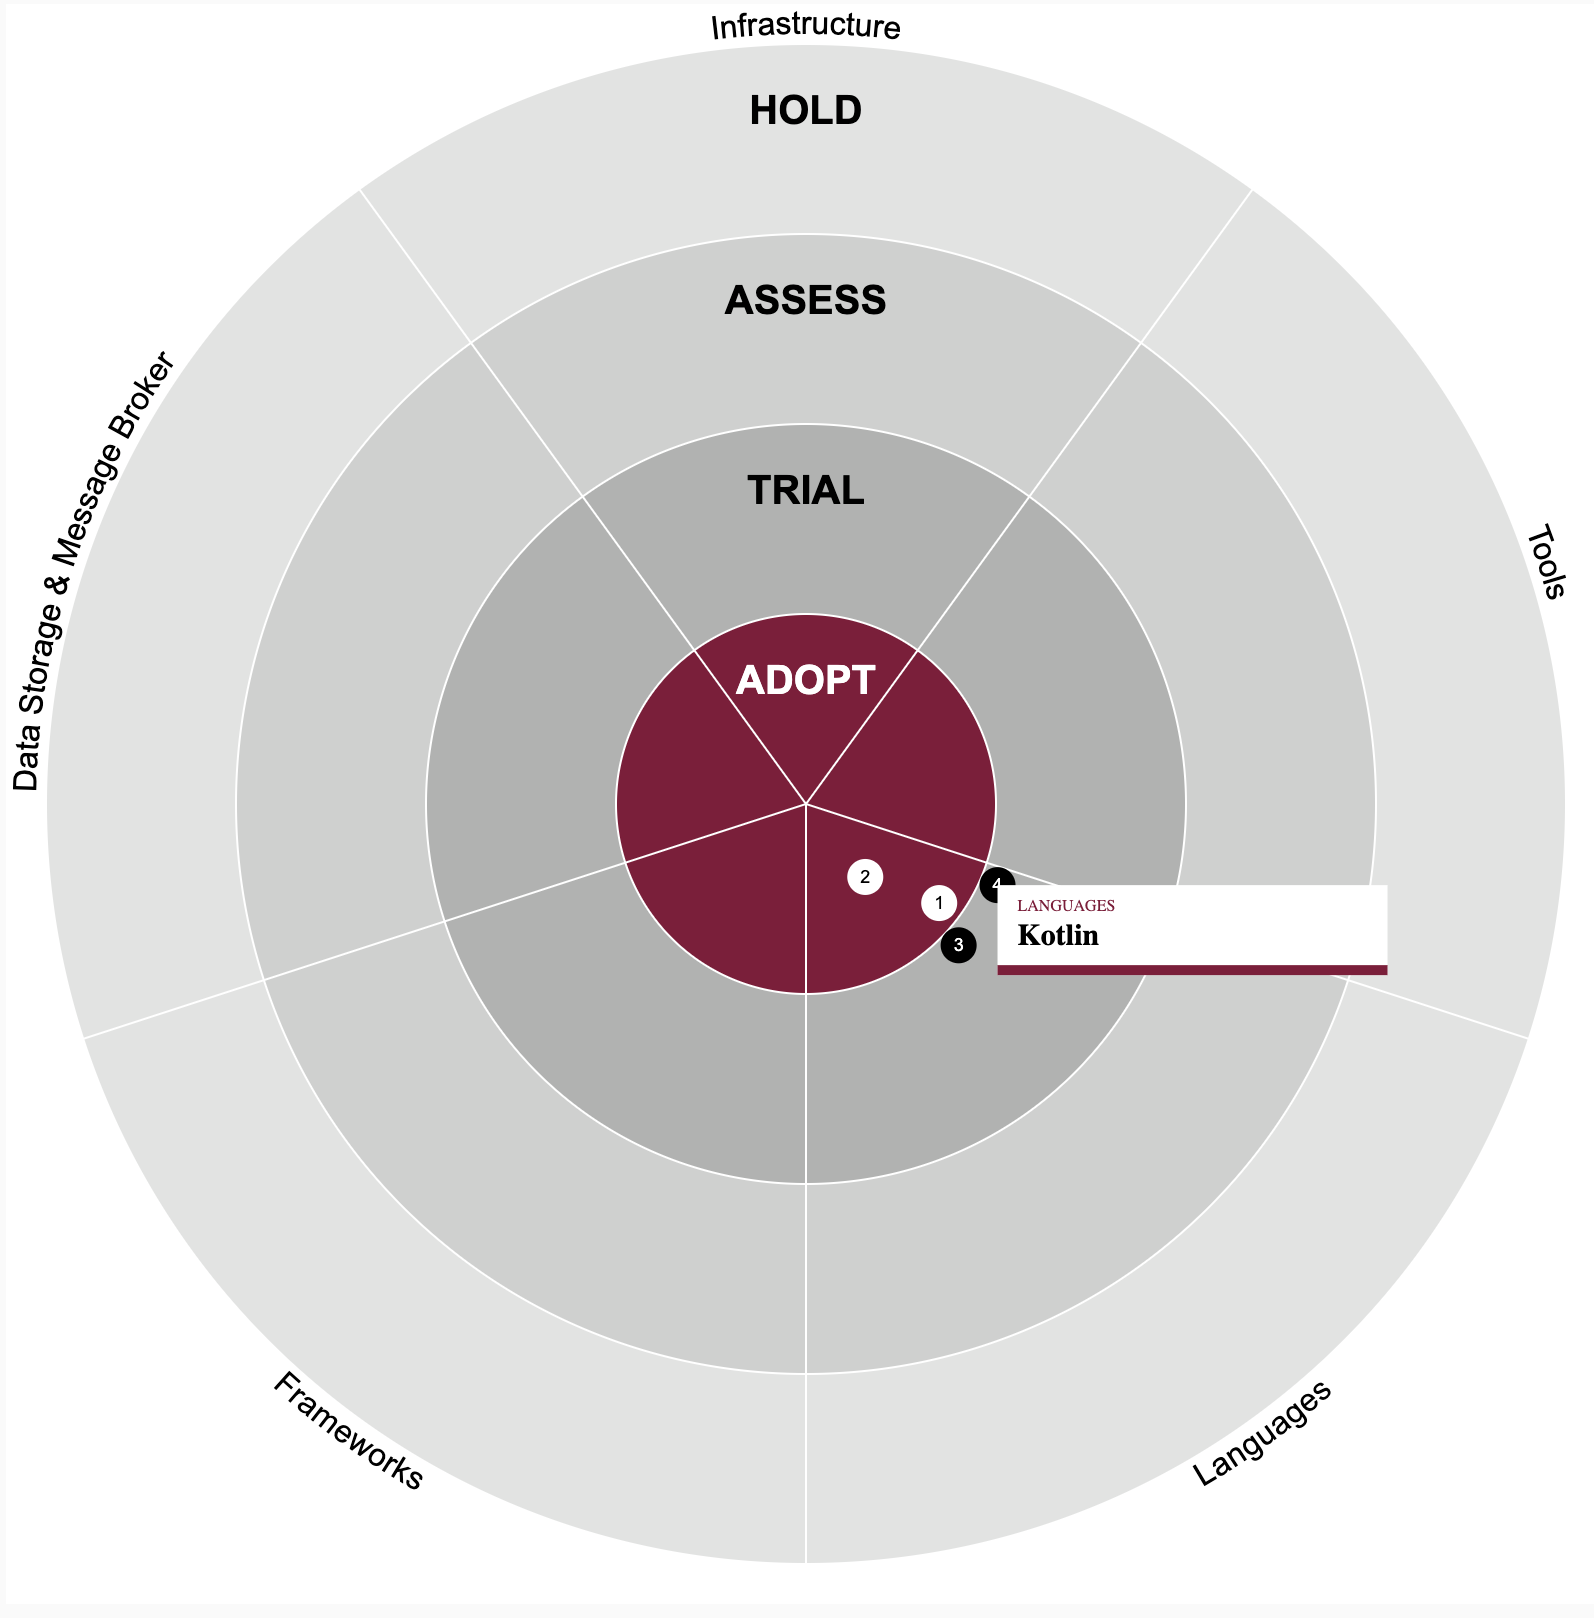
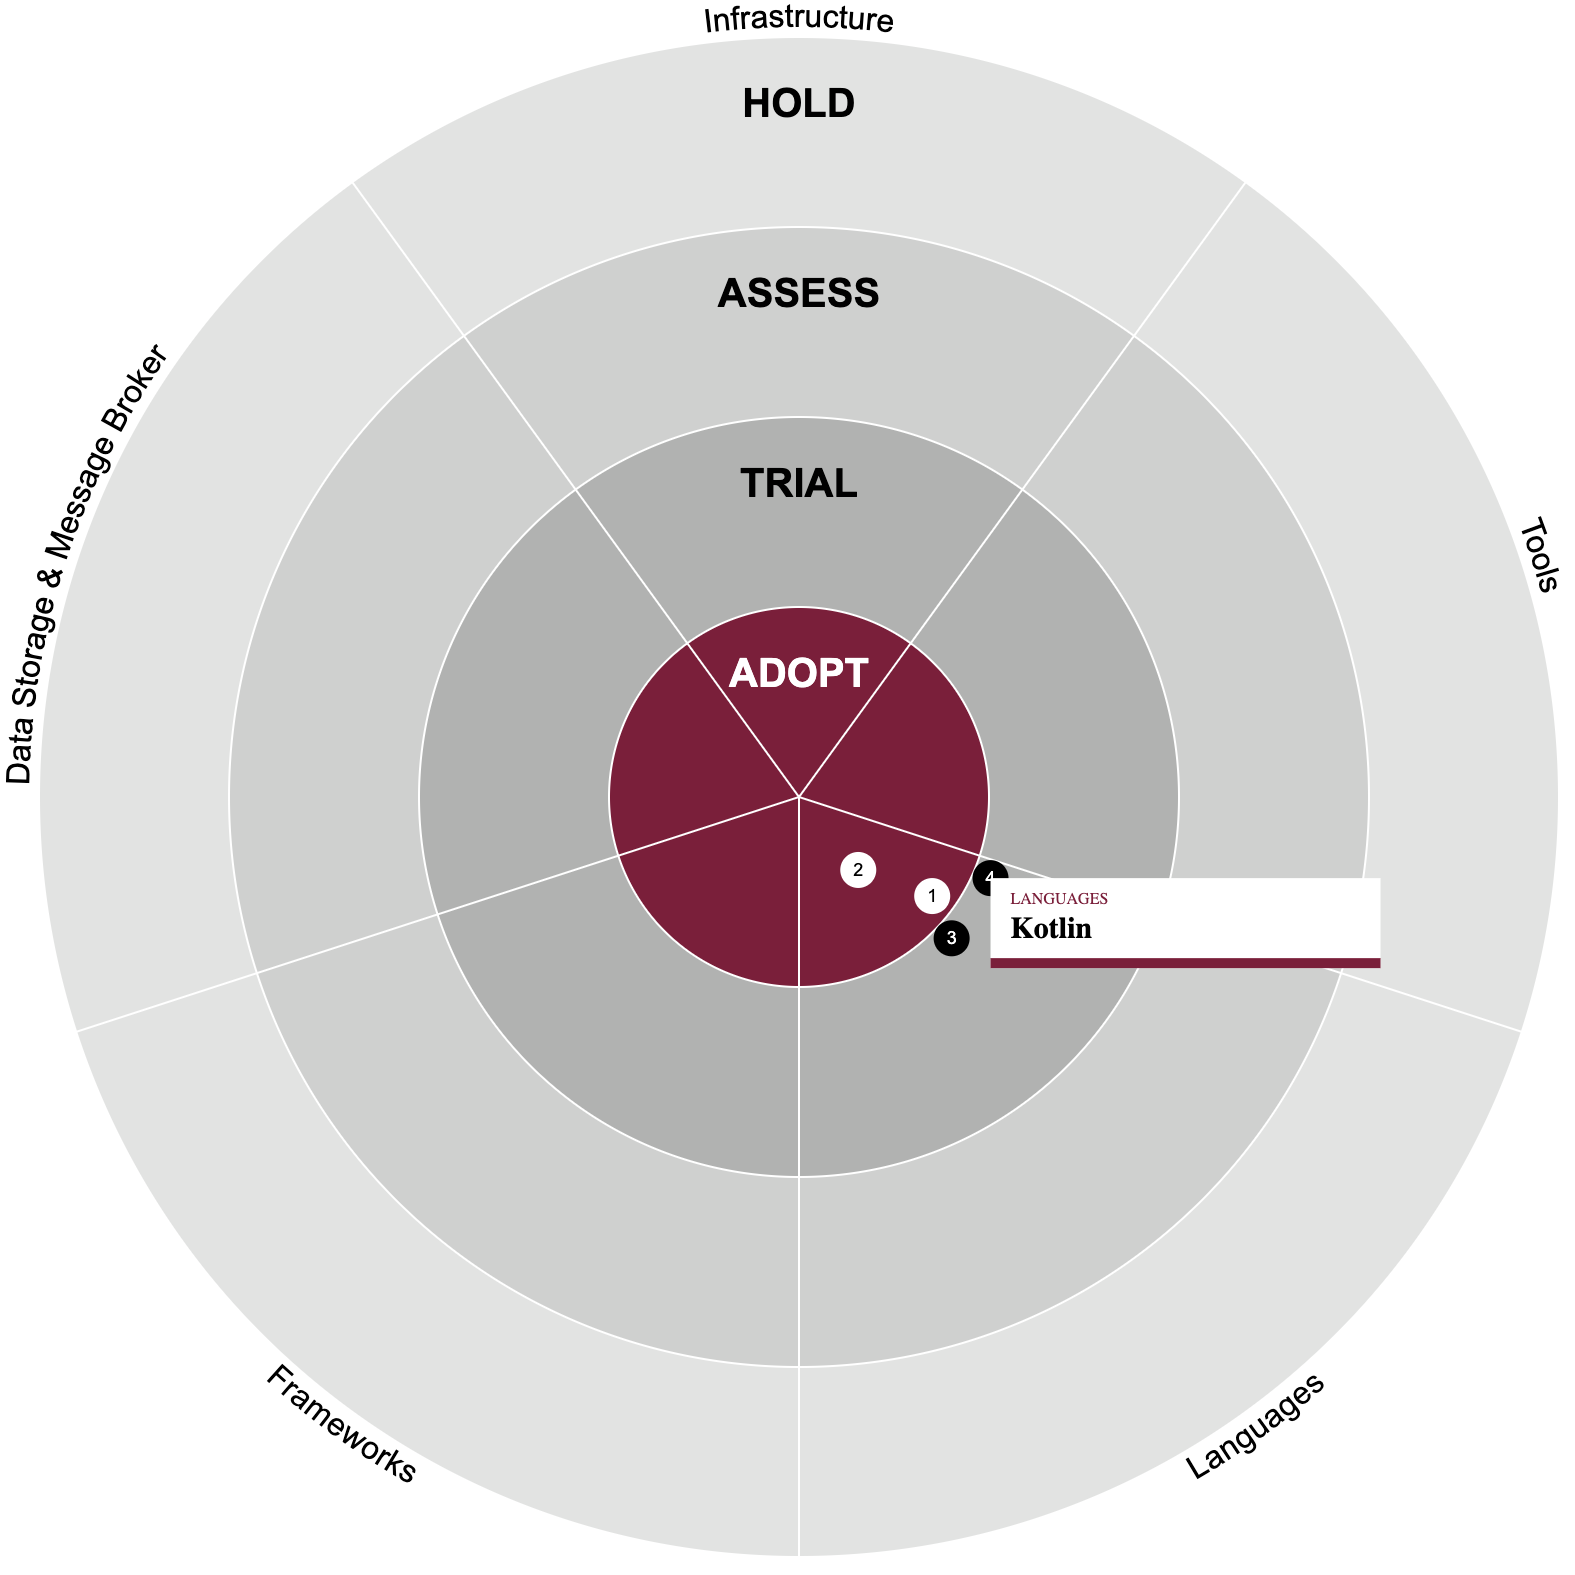
Add dark mode example picture

diff --git a/README.md b/README.md
@@ -3,7 +3,10 @@ This web-component shall give users an easy and highly configurable way of creat
 
 You may customize the number, styling and name of rings, the number and name of the sections and add entries to those sections. Additionally, your host-application can set the highlighted entry from outside (making the radar-element show a tooltip) and be informed via an event, whenever the user mouses over an entry.
 
-![A TechRadar showing 4 entries in the languages section with a tooltip showing for the entry Kotlin](https://raw.githubusercontent.com/felixthiele/radar-element/main/docs/radar-element.png)
+<p>
+  <img src="https://raw.githubusercontent.com/felixthiele/radar-element/main/docs/radar-element.png" width="49%" alt="A TechRadar showing 4 entries in the languages section with a tooltip showing for the entry Kotlin" />
+  <img src="https://raw.githubusercontent.com/felixthiele/radar-element/main/docs/radar-element-dark.png" width="49%" alt="The same radar but in dark mode color palette"/> 
+</p>
 
 The web-component follows the [open-wc](https://github.com/open-wc/open-wc) recommendations.
 
